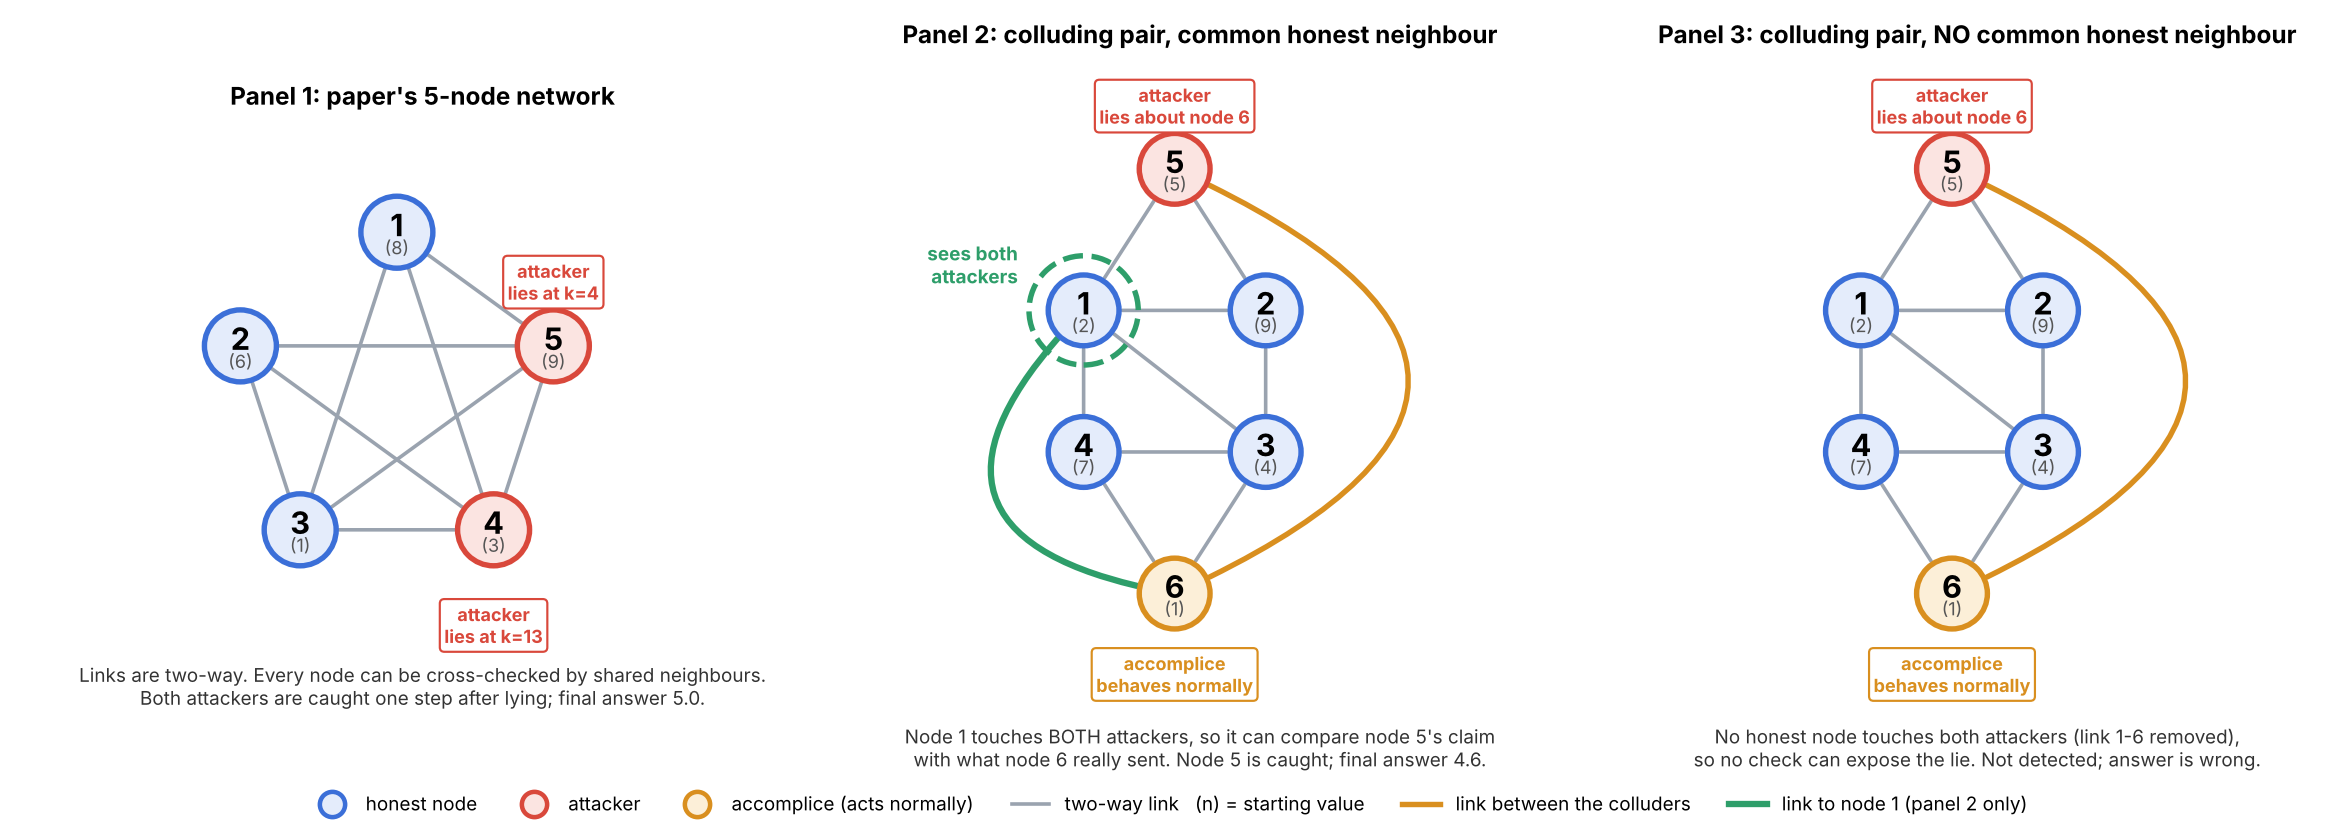
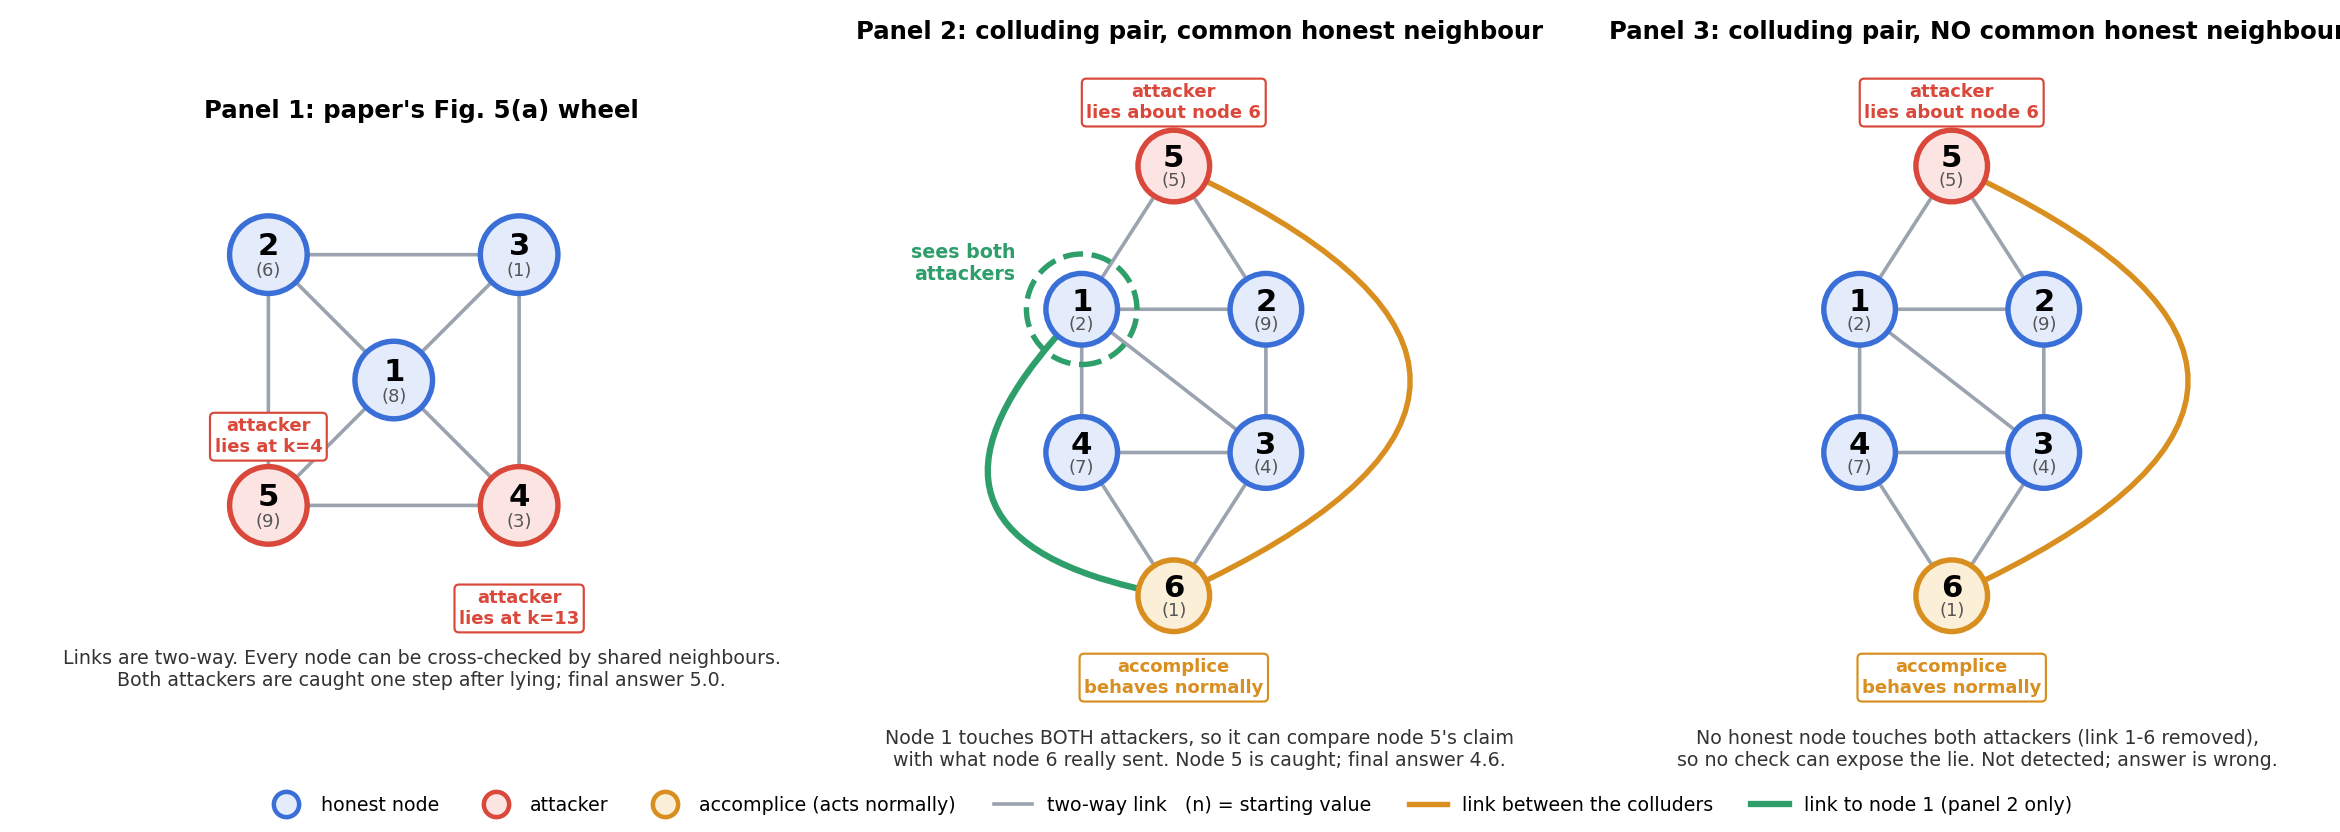
Alg 2 network diagram: panel 1 uses paper.fig5a() wheel; regenerate image

diff --git a/draw_networks_alg2.py b/draw_networks_alg2.py
@@ -9,15 +9,17 @@ from matplotlib.patches import Circle, FancyArrowPatch
 BLUE, RED, AMBER, GREEN, GREY = "#3B6FD8", "#D9483B", "#D98F1F", "#2E9E6A", "#9AA3AF"
 R = 0.22
 
-E5 = [(u - 1, v - 1) for u in range(1, 6) for v in range(u + 1, 6) if (u, v) != (1, 2)]
+from rac_sim import paper
+E5 = [(u, v) for u, v in paper.fig5a().edges if u < v]
 BASE = [(0, 1), (1, 2), (2, 3), (3, 0), (0, 2), (4, 0), (4, 1), (5, 2), (5, 3), (4, 5)]
 START5, START6 = [8, 6, 1, 3, 9], [2, 9, 4, 7, 5, 1]
 
-pent = {i: (1.6 * math.cos(math.radians(90 + 72 * i)), 1.6 * math.sin(math.radians(90 + 72 * i))) for i in range(5)}
+pent = {0: (0, 0)}
+pent.update({i: (1.6 * math.cos(math.radians(a)), 1.6 * math.sin(math.radians(a))) for i, a in zip((1, 2, 3, 4), (135, 45, -45, -135))})
 six = {0: (-0.9, 0.7), 1: (0.9, 0.7), 2: (0.9, -0.7), 3: (-0.9, -0.7), 4: (0, 2.1), 5: (0, -2.1)}
 
 CASES = [
-    dict(title="Panel 1: paper's 5-node network", pos=pent, edges=E5, start=START5,
+    dict(title="Panel 1: paper's Fig. 5(a) wheel", pos=pent, edges=E5, start=START5,
          roles={4: ("attacker", "lies at k=4"), 3: ("attacker", "lies at k=13")},
          note="Links are two-way. Every node can be cross-checked by shared neighbours.\n"
               "Both attackers are caught one step after lying; final answer 5.0.", extra=None),
